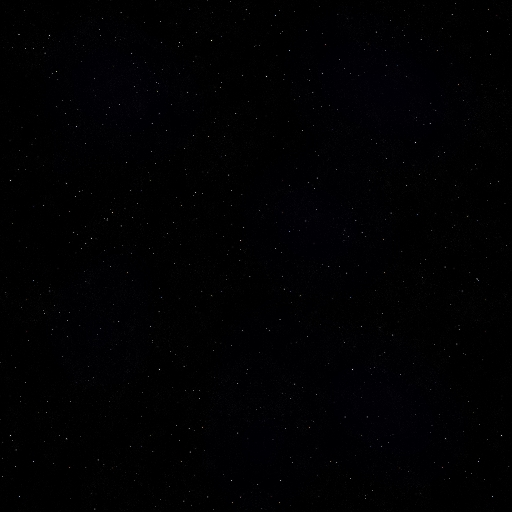
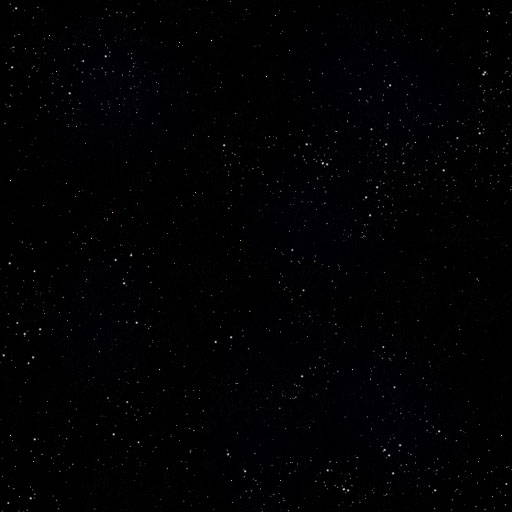
* reworked space.jpg + added message if login or password failed

Changed region(s): [[0.6562, 0.9375, 0.6875, 0.9688]]

diff --git a/src/com/android/game/rania/RaniaGame.java b/src/com/android/game/rania/RaniaGame.java
@@ -8,6 +8,7 @@ import android.content.Context;
 import com.android.game.rania.controller.MainController;
 import com.android.game.rania.model.element.Locations;
 import com.android.game.rania.model.element.Planets;
+import com.android.game.rania.model.ui.HelperUI;
 import com.android.game.rania.net.NetController;
 import com.android.game.rania.screen.MainMenu;
 import com.android.game.rania.userdata.User;
@@ -17,10 +18,18 @@ import com.badlogic.gdx.Gdx;
 
 public class RaniaGame extends Game {
 	
+	//game
 	public static RaniaGame      mGame       = null;
-	public static Context		 mContext    = null;
+	
+	//mvc
 	public static MainView       mView       = null;
 	public static MainController mController = null;
+	
+	//helpers
+	public static Context        mContext    = null;
+	public static HelperUI       mHelperUI   = null;
+	
+	//network
 	public static NetController  nController = null;
 	public static User           mUser       = null;
 	public static List<Locations>mLocations;
@@ -29,6 +38,7 @@ public class RaniaGame extends Game {
 	public RaniaGame(Context context) {
 		super();
 		mContext = context;
+		mHelperUI = new HelperUI(mContext);
 	}
 
 	@Override
@@ -41,7 +51,6 @@ public class RaniaGame extends Game {
 		mLocations = new ArrayList<Locations>();
 		mPlanets = new ArrayList<Planets>();
 		setScreen(new MainMenu());
-		//setScreen(new SpaceScreen());
 	}
 
 	/*

diff --git a/src/com/android/game/rania/model/ui/HelperUI.java b/src/com/android/game/rania/model/ui/HelperUI.java
@@ -1,0 +1,34 @@
+package com.android.game.rania.model.ui;
+
+import android.content.Context;
+import android.os.Handler;
+import android.widget.Toast;
+
+public class HelperUI {
+	
+	private Handler uiThread = null;
+	private Context appContext = null;
+	
+	public HelperUI(Context appContext) {
+	    uiThread = new Handler();
+	    this.appContext = appContext;
+	}
+	
+	public void showToastShort(final String message) {
+	    uiThread.post(new Runnable() {
+	        @Override
+	        public void run() {
+	            Toast.makeText(appContext, message, Toast.LENGTH_SHORT).show();
+	        }
+	    });
+	}
+	
+	public void showToastLong(final String message) {
+	    uiThread.post(new Runnable() {
+	        @Override
+	        public void run() {
+	            Toast.makeText(appContext, message, Toast.LENGTH_LONG).show();
+	        }
+	    });
+	}
+}

diff --git a/src/com/android/game/rania/screen/SpaceScreen.java b/src/com/android/game/rania/screen/SpaceScreen.java
@@ -33,8 +33,8 @@ public class SpaceScreen implements Screen{
 		SpaceShip ship = new SpaceShip(0.0f, 0.0f);
 		controller.setPlayer(ship);
 
-		controller.addStaticObject(new ParallaxLayer(RegionID.BACKGROUND_SPACE, 0.5f, 1.0f));
-		controller.addStaticObject(new ParallaxLayer(RegionID.BACKGROUND_STARS, 0.2f, 1.0f));
+		controller.addStaticObject(new ParallaxLayer(RegionID.BACKGROUND_SPACE, 0.3f, 1.0f));
+		controller.addStaticObject(new ParallaxLayer(RegionID.BACKGROUND_STARS, 0.0f, 1.0f));
 		controller.addProcessor(new ShipController(ship));
 	}
 

diff --git a/src/com/android/game/rania/screen/MainMenu.java b/src/com/android/game/rania/screen/MainMenu.java
@@ -89,7 +89,7 @@ public class MainMenu implements Screen{
 				}
 				else
 				{
-					//Toast.makeText(RaniaGame.mContext.getApplicationContext(), "Invalid login or password...", Toast.LENGTH_SHORT).show();
+					RaniaGame.mHelperUI.showToastLong("Invalid login or password...");
 				}
 	        }
 	    });
